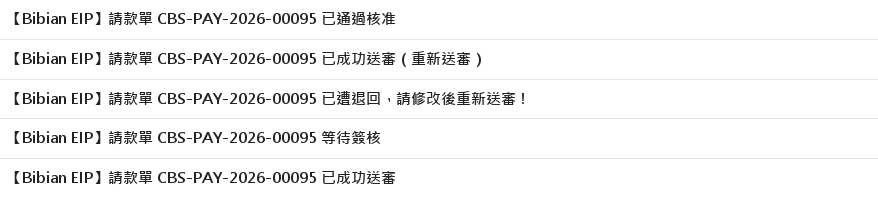
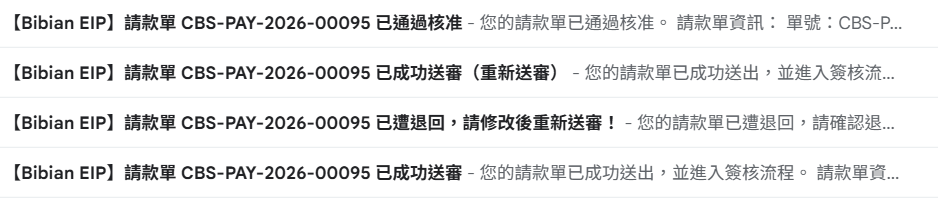
更新_Bibian EIP 比比昂企業資訊入口平台

diff --git a/Presentation/index.html b/Presentation/index.html
@@ -9,7 +9,7 @@
     *{box-sizing:border-box} html,body{margin:0;width:100%;height:100%;overflow:hidden;background:#07182f;color:var(--ink);font-family:"Noto Sans TC","Microsoft JhengHei",Arial,sans-serif}
     button,a{font:inherit}.deck{width:100%;height:100%;position:relative}.slide{display:none;position:absolute;inset:0;background:var(--paper);padding:6.8vh 7vw 7.5vh}.slide.active{display:flex;flex-direction:column}.slide.dark{background:linear-gradient(125deg,#102d59 0%,#173865 62%,#244c83 100%);color:#fff;overflow:hidden}.slide.dark:before,.slide.dark:after{content:"";position:absolute;border-radius:50%;background:#2a538c66}.slide.dark:before{width:38vw;height:38vw;right:-15vw;top:-17vw}.slide.dark:after{width:28vw;height:28vw;right:-8vw;bottom:-15vw}
     .brand{display:flex;align-items:center;gap:.7rem;font-weight:700;font-size:1.05rem;letter-spacing:.04em;position:relative;z-index:2}.brandmark{width:34px;height:24px;border-radius:8px;background:var(--orange);display:grid;place-items:center;color:#fff;font-size:.75rem}.eyebrow{display:inline-flex;align-items:center;width:max-content;padding:.38rem .75rem;border-radius:999px;background:#e7eff9;color:var(--navy);font-size:.85rem;font-weight:800;letter-spacing:.08em}.dark .eyebrow{background:var(--orange);color:#23334d}.title{font-family:Cambria,"Noto Serif TC",serif;font-size:clamp(2.2rem,4.2vw,4.4rem);line-height:1.1;margin:1.8rem 0 .8rem;letter-spacing:.02em;position:relative;z-index:2}.subtitle{font-size:clamp(1rem,1.7vw,1.55rem);line-height:1.55;color:#cbdcf3;position:relative;z-index:2}.slide h2{font-family:Cambria,"Noto Serif TC",serif;font-size:clamp(2rem,3.1vw,3.25rem);line-height:1.18;color:var(--navy);margin:.8rem 0 .55rem}.lead{font-size:clamp(1rem,1.5vw,1.35rem);color:var(--muted);margin:0 0 1.6rem}.accent-line{width:135px;height:5px;background:var(--orange);border-radius:5px;margin-top:1.1rem}.footer{position:absolute;left:7vw;right:7vw;bottom:2.5vh;display:flex;justify-content:space-between;color:#8390a4;font-size:.72rem}.dark .footer{color:#a9bed9}
-    .hero{margin:auto 0;max-width:900px}.flowline{font-size:clamp(1.65rem,3vw,3.15rem);font-weight:800;line-height:1.55;color:#fff;position:relative;z-index:2}.flowline span{color:var(--orange)}.scope{display:flex;gap:1rem;margin-top:2rem;position:relative;z-index:2}.scope div{border:1px solid #ffffff2f;background:#ffffff0d;padding:.9rem 1.15rem;border-radius:12px;font-size:1rem}
+    .hero{margin:auto 0;max-width:900px}.cover-hero{max-width:none}.cover-hero .title{white-space:nowrap;font-size:clamp(2.2rem,4.05vw,4.1rem)}.flowline{font-size:clamp(1.65rem,3vw,3.15rem);font-weight:800;line-height:1.55;color:#fff;position:relative;z-index:2}.flowline span{color:var(--orange)}.scope{display:flex;gap:1rem;margin-top:2rem;position:relative;z-index:2}.scope div{border:1px solid #ffffff2f;background:#ffffff0d;padding:.9rem 1.15rem;border-radius:12px;font-size:1rem}
     .compare{display:grid;grid-template-columns:1fr 1fr;gap:2.2rem;flex:1;min-height:0;margin-top:1.2rem}.panel{border-radius:18px;padding:1.5rem 1.7rem;border:1px solid var(--line);background:#fff}.panel.old{background:#fff2ef}.panel.new{background:var(--navy);color:#fff;border-color:var(--navy)}.panel h3{font-size:1.45rem;margin:.2rem 0 1.1rem}.panel ul{margin:0;padding-left:1.25rem;display:grid;gap:.9rem;font-size:clamp(.95rem,1.25vw,1.2rem);line-height:1.45}.panel.new ul{color:#dce8f8}.panel li::marker{color:var(--orange)}
     .process{display:grid;grid-template-columns:repeat(6,1fr);gap:.75rem;margin:auto 0}.step{position:relative;background:#fff;border:2px solid #d7e1ef;border-radius:16px;padding:1.25rem .85rem;min-height:190px;text-align:center;display:flex;flex-direction:column;align-items:center;justify-content:center}.step strong{font-size:1.08rem;color:var(--navy);line-height:1.35}.step small{margin-top:.7rem;color:var(--muted);line-height:1.35}.num{width:34px;height:34px;border-radius:50%;display:grid;place-items:center;background:var(--blue);color:#fff;font-weight:800;margin-bottom:.85rem}.step:last-child{border-color:#9dc9aa;background:#f1faf4}.step:last-child .num{background:var(--green)}
     .vpn-grid{display:grid;grid-template-columns:1fr .72fr;gap:3rem;align-items:center;flex:1;min-height:0}.vpn-copy{max-width:720px}.vpn-copy h3{font-size:clamp(1.4rem,2vw,2rem);color:var(--navy);margin:1.2rem 0 .8rem}.vpn-copy p{font-size:clamp(1rem,1.35vw,1.2rem);line-height:1.65;color:var(--muted)}.vpn-steps{display:flex;align-items:center;gap:.7rem;margin-top:1.4rem;flex-wrap:wrap}.vpn-steps span{padding:.75rem 1rem;border-radius:12px;background:#fff;border:1px solid var(--line);color:var(--navy);font-weight:800}.vpn-steps b{color:var(--orange)}.vpn-shot{justify-self:center;background:#161a1f;border-radius:18px;padding:.55rem;box-shadow:0 16px 42px #102a4d38;max-height:62vh}.vpn-shot img{display:block;max-height:59vh;width:auto}
@@ -30,7 +30,7 @@
 <main class="deck" id="deck">
   <section class="slide dark active">
     <div class="brand"><span class="brandmark">B!</span> Bibian EIP</div>
-    <div class="hero"><span class="eyebrow">Bibian EIP 比比昂企業資訊入口平台</span><h1 class="title">Phase 1－CBS 請款單簽核流程</h1><p class="subtitle" style="color:#fff;font-weight:800">將既有紙本請款流程，轉為線上簽核</p><p class="subtitle" style="font-size:clamp(.95rem,1.35vw,1.2rem);margin-top:.35rem">延續既有核決規則，讓申請資料集中可控，並完整保留每一筆簽核與退回歷程。</p><div class="scope"><div>線上填單</div><div>依規則簽核</div><div>財務複核</div><div>通知與完整歷程</div></div><p style="position:relative;z-index:2;color:#a9bed9;margin-top:1.1rem">本階段以流程電子化、資料管理及歷程追溯為主，介面以支援清楚操作為原則。</p></div>
+    <div class="hero cover-hero"><span class="eyebrow">Bibian EIP 比比昂企業資訊入口平台</span><h1 class="title">Phase 1 — CBS 請款單簽核流程</h1><p class="subtitle" style="color:#fff;font-weight:800">本階段聚焦 CBS 請款流程電子化，以內部作業需求、資料管理及歷程追溯為優先</p><p class="subtitle" style="font-size:clamp(.95rem,1.35vw,1.2rem);margin-top:.35rem">將請款申請、簽核及退回流程納入系統管理，集中留存申請資料與完整簽核歷程。</p></div>
   </section>
 
   <section class="slide">
